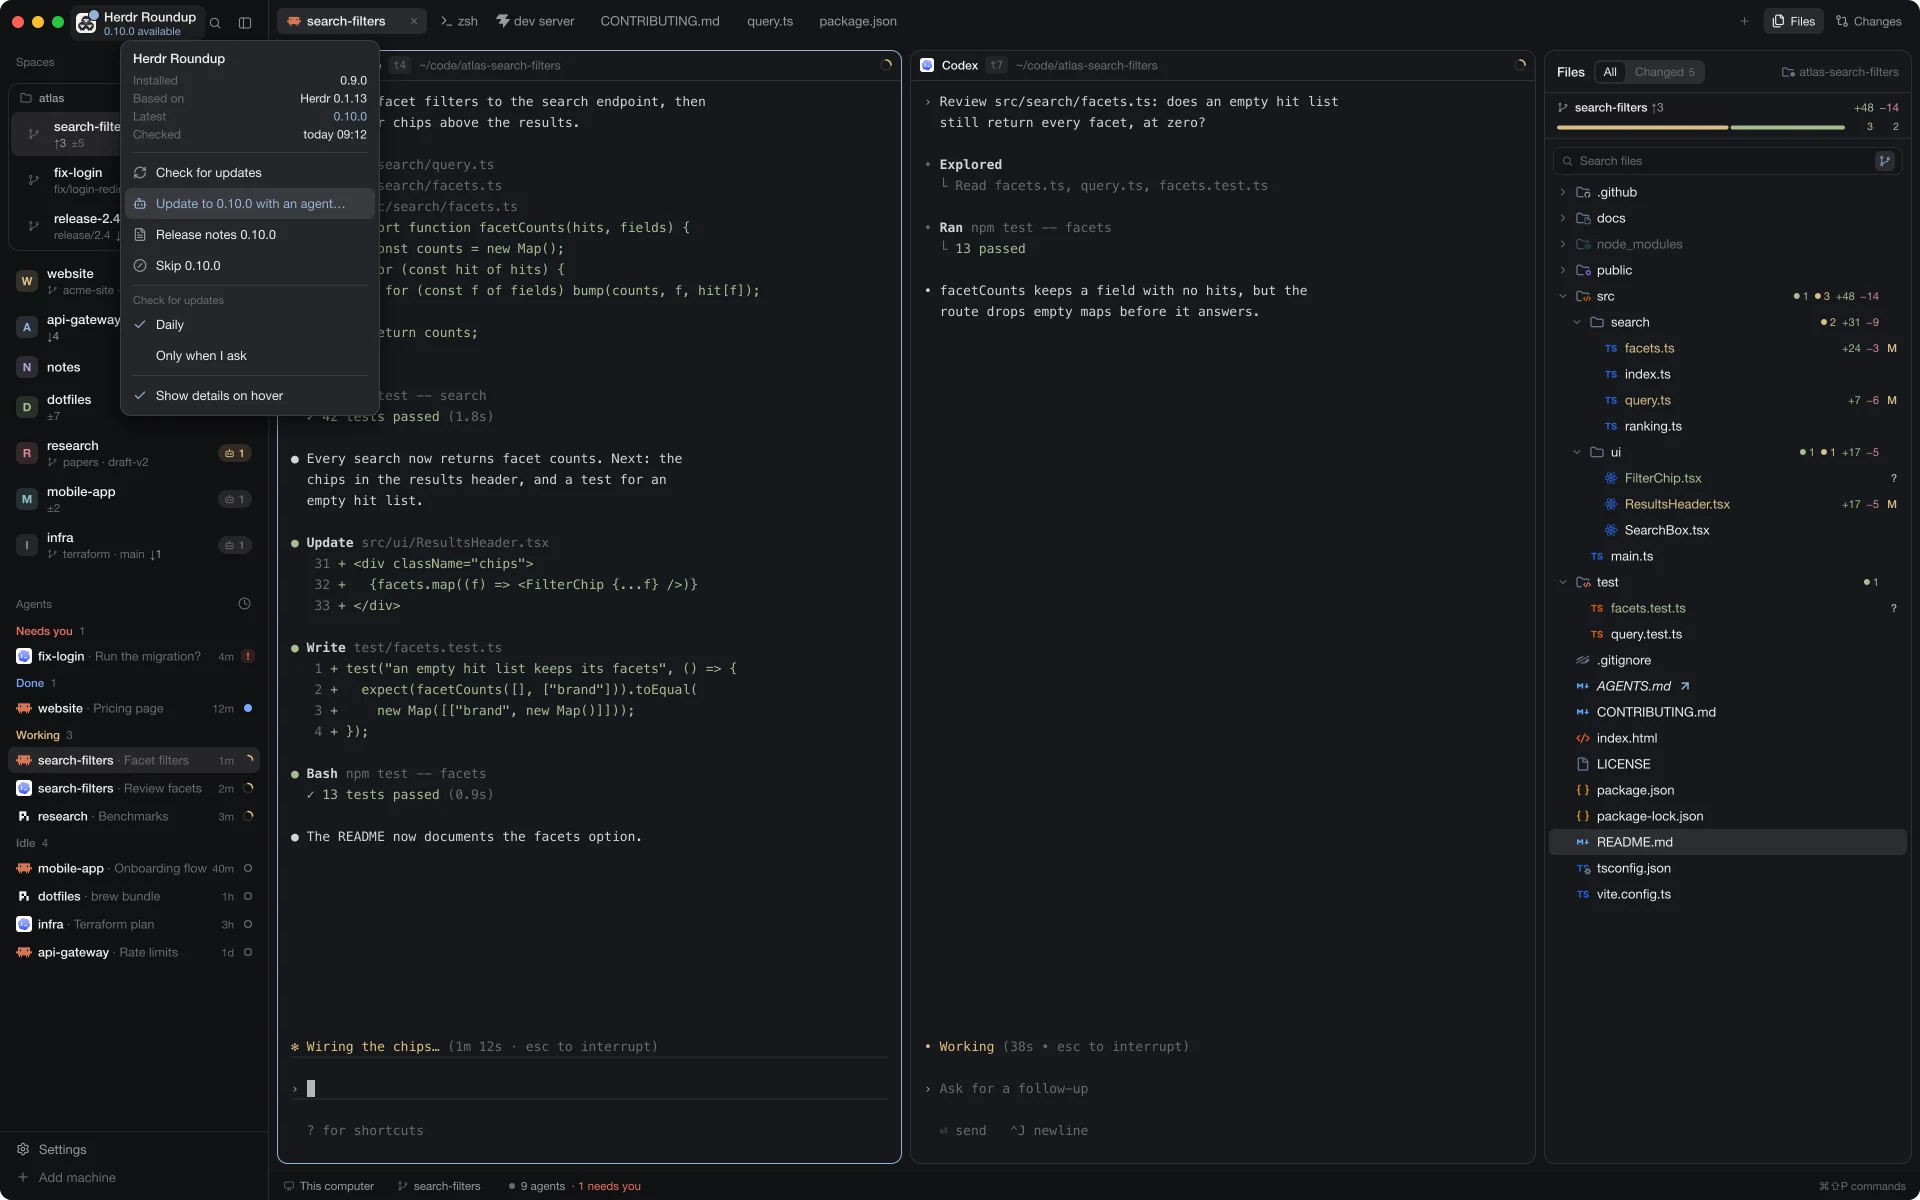
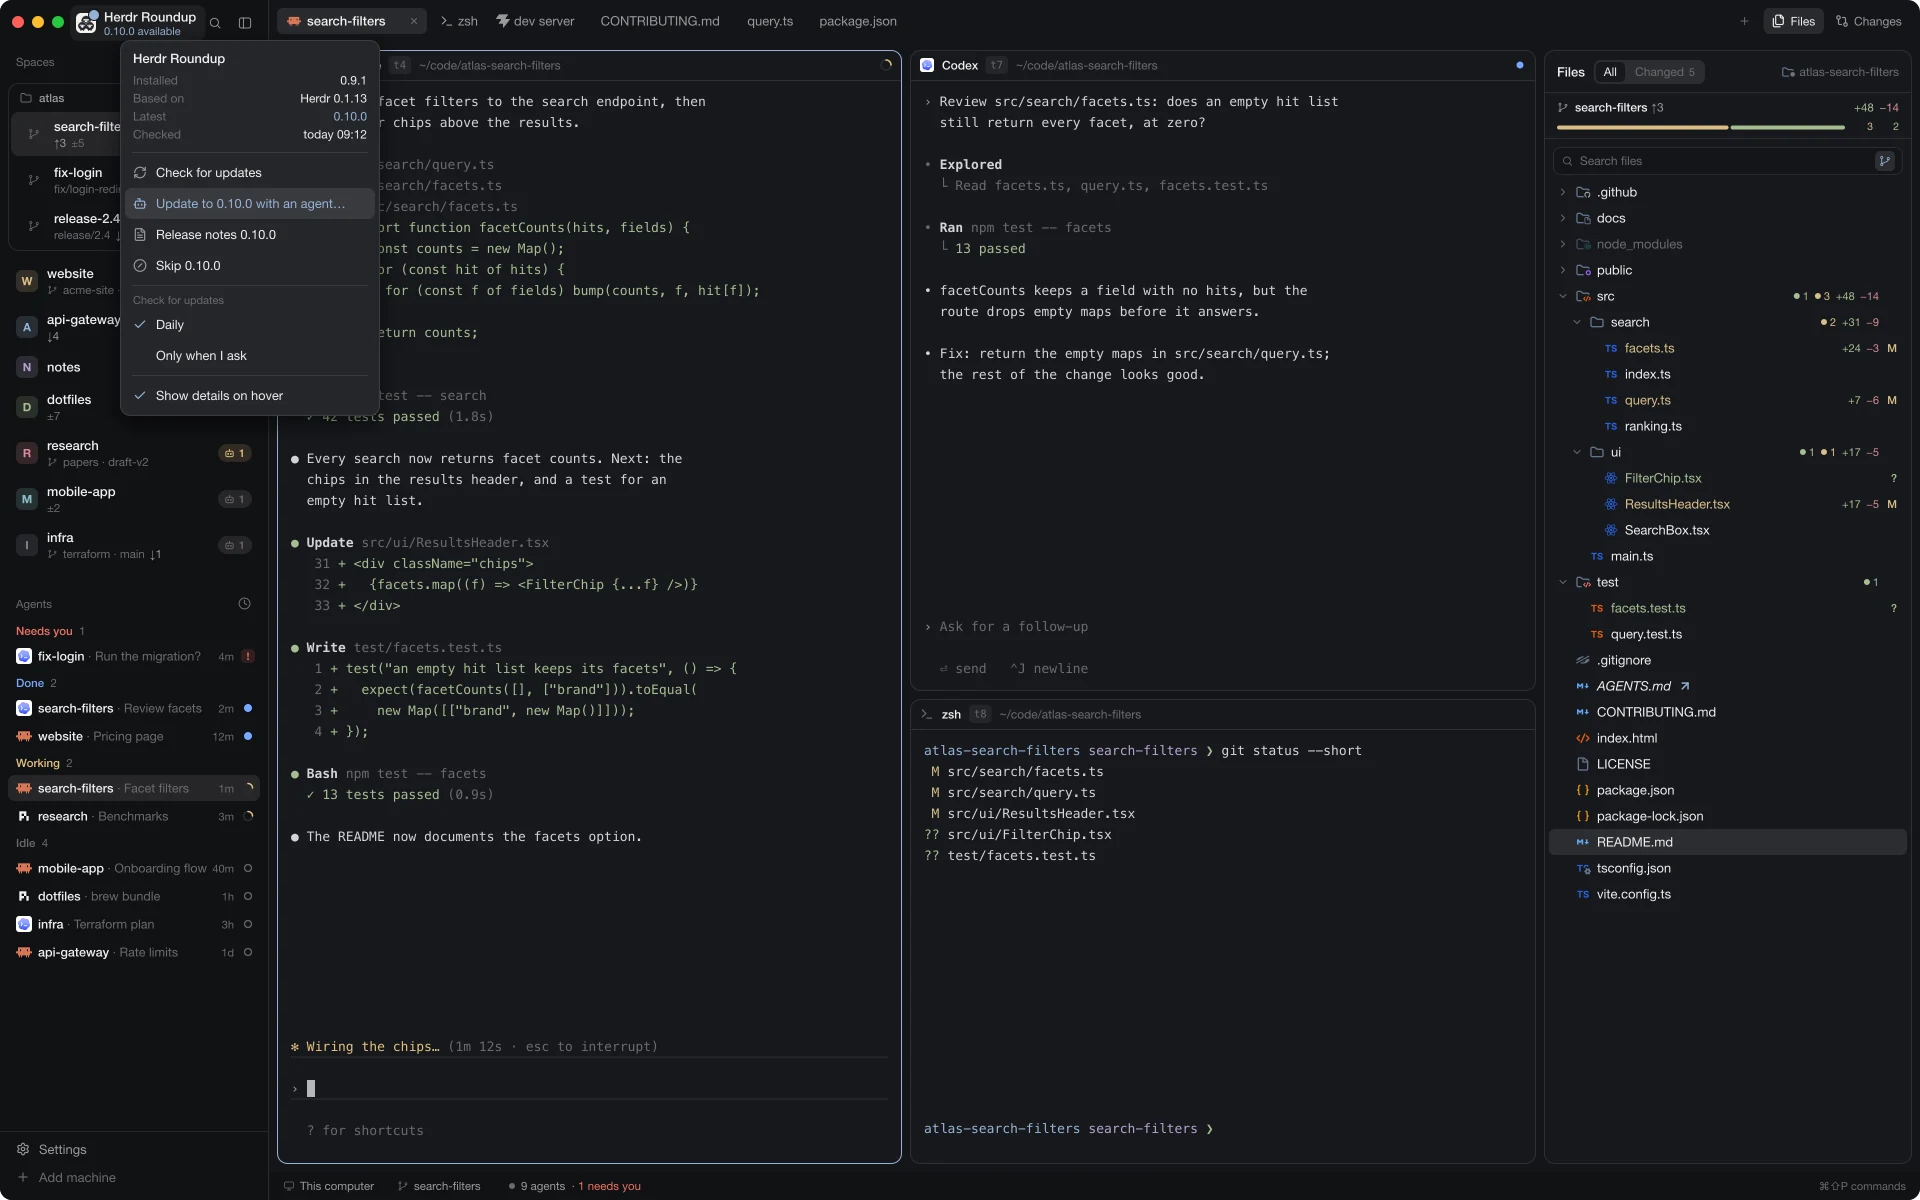
feat: the pictures show the agent quicklook, with a done agent and a split pane; version 0.9.1 (#29)
* feat: the pictures show the agent quicklook, with a done agent and a split pane

preview.png's poster now shows search-filters' agent card above the floating
preview. In the drawn window Codex is done (blue) and sits above a shell on
the right of the tab, so the card shows two statuses and a map of three
panes: Claude Code beside Codex over the shell. The sidebar's badge and agent
list follow (Done 2, Working 2).

The site gets a hero slide of the whole window with the card open
(hero-quicklook), and every picture is drawn again from the same window;
alt texts in README, RECIPE and the site say what they now show.
LAY-22: the poster shows the card, Settings' bare window doesn't.

* chore: version 0.9.1, the pictures drawn again with it

---------

diff --git a/site/index.html b/site/index.html
@@ -55,7 +55,8 @@
     <div class="glow" aria-hidden="true"></div>
     <div class="frame">
       <div class="track">
-        <figure class="slide" aria-roledescription="slide"><img draggable="false" src="img/window.webp" width="1920" height="1200" alt="The whole window: spaces with git state, two agents side by side, a README in the floating preview, the files panel" data-title="The whole window" data-text="Spaces with their git state, two agents side by side, a README in the floating preview, the files panel."></figure>
+        <figure class="slide" aria-roledescription="slide"><img draggable="false" src="img/window.webp" width="1920" height="1200" alt="The whole window: spaces with git state, two agents beside a shell, a README in the floating preview, the files panel" data-title="The whole window" data-text="Spaces with their git state, two agents beside a shell, a README in the floating preview, the files panel."></figure>
+        <figure class="slide" aria-roledescription="slide"><img draggable="false" src="img/hero-quicklook.webp" width="1920" height="1200" alt="The agent card open under the badge of search-filters: Claude Code working on the left, Codex done above a shell on the right, and the card's map of those three panes" data-title="Who works where" data-text="Rest the pointer on a space's agent badge: its agents by tab, with their status and a map of the tab's panes."></figure>
         <figure class="slide" aria-roledescription="slide"><img draggable="false" src="img/hero-files-changed.webp" width="1920" height="1200" alt="The files panel showing only the changed files" data-title="Only what changed" data-text="The files panel lists exactly what git status lists, with lines added and removed."></figure>
         <figure class="slide" aria-roledescription="slide"><img draggable="false" src="img/hero-preview-tab.webp" width="1920" height="1200" alt="package.json in a preview tab as a JSON tree" data-title="A preview for every file" data-text="Markdown, PDF, pictures, CSV, JSON and code, in a floating window or a tab of their own."></figure>
         <figure class="slide" aria-roledescription="slide"><img draggable="false" src="img/hero-update.webp" width="1920" height="1200" alt="The update menu under the logo, offering the next version" data-title="Updates through your agent" data-text="A new release shows on the logo; your agent installs it after asking you."></figure>
@@ -112,7 +113,7 @@
       </div>
       <h3>Who works where</h3>
       <p>With two or more agents in a space, <b>rest the pointer on its badge</b>: a card lists them by tab, each with its status, program and terminal title, beside a <b>small map of the tab's panes</b>, split as they are on screen. Point at a row and its pane lights up. A click on a row or an agent's pane goes there, switching space and tab; a click on the badge itself switches to the space.</p>
-      <div class="stack"><figure class="crop"><button class="zoom" type="button"><img src="img/quicklook.webp" width="585" height="280" alt="The agent card under the badge of search-filters: Claude Code and Codex, both working, and a map of the tab's two panes with Codex's lit"></button></figure></div>
+      <div class="stack"><figure class="crop"><button class="zoom" type="button"><img src="img/quicklook.webp" width="585" height="280" alt="The agent card under the badge of search-filters: Claude Code working and Codex done, and a map of the tab's three panes, Claude Code beside Codex over a shell, with Codex's lit"></button></figure></div>
     </section>
 
     <section id="files">

diff --git a/scripts/preview.py b/scripts/preview.py
@@ -1,7 +1,7 @@
 # Draws the Herdr-Roundup window as an SVG, with made-up spaces, agents, terminals and files:
 # no one's real spaces, paths or sessions. Sizes come from layouts/Herdr-Roundup.json and
-# the roundup- mods, colors from the graphite theme. The active tab has two panes side by
-# side, the side panel shows roundup-files (with a symlink, AGENTS.md), and roundup-preview's floating window shows the
+# the roundup- mods, colors from the graphite theme. The active tab has Claude Code (working) on
+# the left, Codex (done) above a shell on the right, the side panel shows roundup-files (with a symlink, AGENTS.md), and roundup-preview's floating window shows the
 # project's README. Run from the repo:
 #   python3 scripts/preview.py . layouts/Herdr-Roundup.svg
 #   rsvg-convert -z 2 layouts/Herdr-Roundup.svg -o preview.png
@@ -9,7 +9,7 @@
 # README.md and RECIPE.md show the PNG, drawn from the poster instead:
 #   python3 scripts/preview.py . /tmp/poster.svg poster && rsvg-convert -z 2 /tmp/poster.svg -o preview.png
 # The poster puts the window beside name, claim and the main features (FEATURES), the sheep sunk
-# into the background above it. assets/logo-mark.png is assets/logo.png in grey, 480px, 8 colors;
+# into the background above it; its window shows the quicklook card of search-filters' agents. assets/logo-mark.png is assets/logo.png in grey, 480px, 8 colors;
 # a filter turns its dark wool into the light mark. "poster" is no scene: --scenes leaves it out.
 # A third argument draws one of the scenes the project's site shows instead, cropped to what it
 # is about (scripts/site.sh renders them all): SCENES below names them, CROPS at the end crops
@@ -305,7 +305,7 @@ y = 77 + 6
 cx, cw = 8, 252
 card_top = y
 inner = [
-    dict(name="search-filters", tree=True, git=("", 3, 0, 5), crew=(2, "working"), active=True),
+    dict(name="search-filters", tree=True, git=("", 3, 0, 5), crew=(2, "done"), active=True),
     dict(name="fix-login", tree=True, git=("fix/login-redirect", 0, 0, 1), crew=(1, "blocked")),
     dict(name="release-2.4", tree=True, git=("release/2.4", 0, 2, 0)),
 ]
@@ -365,9 +365,9 @@ def group(label, n, color, items):
         ay += 28
 
 group("Needs you", 1, "blocked", [("codex", "fix-login", "Run the migration?", "4m", "blocked")])
-group("Done", 1, "done", [("claude", "website", "Pricing page", "12m", "done")])
-group("Working", 3, "working", [("claude", "search-filters", "Facet filters", "1m", "working", True),
-                                ("codex", "search-filters", "Review facets", "2m", "working"),
+group("Done", 2, "done", [("codex", "search-filters", "Review facets", "2m", "done"),
+                          ("claude", "website", "Pricing page", "12m", "done")])
+group("Working", 2, "working", [("claude", "search-filters", "Facet filters", "1m", "working", True),
                                 ("pi", "research", "Benchmarks", "3m", "working")])
 group("Idle", 4, "dim", [("claude", "mobile-app", "Onboarding flow", "40m", "idle"),
                          ("pi", "dotfiles", "brew bundle", "1h", "idle"),
@@ -423,7 +423,8 @@ for name, label, glyph, on in reversed([("files", "Files", "files", True), ("cha
     bx -= 3
 icon("plus", bx - 22, 15, 12, "dim", sw=2)
 
-# The active tab's two panes, left and right, and the side panel: 8px padding and gap, rounded 10px.
+# The active tab's panes, Claude Code on the left, Codex above a shell on the right, and the side
+# panel: 8px padding and gap, rounded 10px.
 PY, PH = 50, H - 28 - 8 - 50
 PW = 368
 PX = W - 8 - PW
@@ -431,14 +432,19 @@ LX = WX + 8
 LW = (PX - 8 - LX - 8) // 2
 RX = LX + LW + 8
 RW = PX - 8 - RX
+# The right side's split: Codex on top, the shell below, 8px apart.
+CH = round((PH - 8) * 0.58)
+SY, SH = PY + CH + 8, PH - CH - 8
 LH = 21  # terminal line height
 TOP = PY + 30 + 12 + 14  # first baseline: header, padding, ascent
 ROWS = (PY + PH - 12 - TOP) // LH + 1
 
-def pane(x, w, prog, name, address, status, focus, lines, bottom, hover=False):
+def pane(x, w, prog, name, address, status, focus, lines, bottom, hover=False, y=PY, h=PH):
     """A pane: roundup-pane's header (icon, name, id chip, folder, status), then the terminal.
     `lines` run from the top, `bottom` sits on the last rows. `hover`: the pointer is on the
-    header, on its pencil, so the header shows rename, split right, split down, zoom and close."""
+    header, on its pencil, so the header shows rename, split right, split down, zoom and close.
+    `y`, `h`: its top and height, the tab's whole height unless it is split."""
+    PY, PH = y, h
     rect(x, PY, w, PH, "background", rx=10)
     frame(x, PY, w, PH, "accent" if focus else "border", rx=10)
     line(x + 1, PY + 30.5, x + w - 1, PY + 30.5, "border")
@@ -464,19 +470,24 @@ def pane(x, w, prog, name, address, status, focus, lines, bottom, hover=False):
         right -= 8
     if status == "working":
         spinner(right - 6, PY + 15, "working", 5)
+    elif status == "done":
+        # roundup-pane's done mark: a 7px dot in the done color.
+        add(f'<circle cx="{r(right - 6)}" cy="{r(PY + 15)}" r="3.5" fill="{paint("done")[0]}"/>')
     clip = f"term-{address}"
     add(f'<defs><clipPath id="{clip}"><rect x="{x + 1}" y="{PY + 31}" width="{w - 2}" height="{PH - 32}"/></clipPath></defs>')
     add(f'<g clip-path="url(#{clip})">')
     # Like a terminal, it scrolls: the lines that don't fit above the bottom rows leave at the top.
-    room = max(0, ROWS - len(bottom))
+    top = PY + 30 + 12 + 14
+    rows = (PY + PH - 12 - top) // LH + 1
+    room = max(0, rows - len(bottom))
     if len(lines) > room:
         lines = lines[-room:] if room else []
     for i, parts in enumerate(lines):
         if parts:
-            spans(x + 14, TOP + LH * i, parts, 13)
+            spans(x + 14, top + LH * i, parts, 13)
     for i, parts in enumerate(bottom):
         if parts:
-            spans(x + 14, TOP + LH * (ROWS - len(bottom) + i), parts, 13)
+            spans(x + 14, top + LH * (rows - len(bottom) + i), parts, 13)
     add('</g>')
 
 F, D, M, G = "terminal", "dim", "muted", "ansi2"
@@ -532,7 +543,7 @@ rect(LX + 30, pb - 13, 8, 17, "terminal", op=0.85)
 
 # In the panes scene the reviewer has a name of its own, and the pointer is on its header.
 PANES = SCENE in ("pane-header", "rename")
-pane(RX, RW, "codex", "Reviewer" if PANES else "Codex", "t7", "working", False, [
+pane(RX, RW, "codex", "Reviewer" if PANES else "Codex", "t7", "done", False, [
     [("› ", M, 400), ("Review src/search/facets.ts: does an empty hit list", F, 400)],
     [("  still return every facet, at zero?", F, 400)],
     [],
@@ -544,13 +555,26 @@ pane(RX, RW, "codex", "Reviewer" if PANES else "Codex", "t7", "working", False, 
     [],
     [("• ", F, 400), ("facetCounts keeps a field with no hits, but the", F, 400)],
     [("  route drops empty maps before it answers.", F, 400)],
-], [
-    [("• ", "working", 400), ("Working ", "working", 400), ("(38s • esc to interrupt)", D, 400)],
     [],
+    [("• ", F, 400), ("Fix: return the empty maps in src/search/query.ts;", F, 400)],
+    [("  the rest of the change looks good.", F, 400)],
+], [
     [("› ", M, 400), ("Ask for a follow-up", D, 400)],
     [],
     [("  ⏎ send   ⌃J newline", D, 400)],
-], hover=SCENE == "pane-header")
+], hover=SCENE == "pane-header", h=CH)
+
+# Below it a shell in the same folder: the files the agents changed, as the side panel shows them.
+pane(RX, RW, "shell", "zsh", "t8", None, False, [
+    [("atlas-search-filters ", "ansi4", 400), ("search-filters ", "ansi5", 400), ("❯ ", G, 400), ("git status --short", F, 400)],
+    [(" M ", "ansi3", 400), ("src/search/facets.ts", F, 400)],
+    [(" M ", "ansi3", 400), ("src/search/query.ts", F, 400)],
+    [(" M ", "ansi3", 400), ("src/ui/ResultsHeader.tsx", F, 400)],
+    [("?? ", "ansi2", 400), ("src/ui/FilterChip.tsx", F, 400)],
+    [("?? ", "ansi2", 400), ("test/facets.test.ts", F, 400)],
+], [
+    [("atlas-search-filters ", "ansi4", 400), ("search-filters ", "ansi5", 400), ("❯ ", G, 400)],
+], y=SY, h=SH)
 
 # ---- side panel: roundup-files, 368px ----
 # The same folder as the panes: three files modified, two new, three commits ahead.
@@ -927,7 +951,7 @@ def dialog_head(x, y, w, title):
     text(x + 18, y + 18 + 15, title, 15, "foreground", 600)
     text(x + w - 18, y + 18 + 14, "Esc", 11, "dim", anchor="end")
 
-if SCENE != "window":
+if SCENE != "window" or POSTER:
     add('<defs><filter id="soft" x="-30%" y="-30%" width="160%" height="160%"><feGaussianBlur stdDeviation="10"/></filter></defs>')
 
 if SCENE == "update":
@@ -1064,13 +1088,16 @@ if SCENE == "preview-tab":
         text(cx_, ty + 16.5, val, 12.5, col, family=MONO)
         ty += 24
 
-if SCENE == "quicklook":
-    # The pointer rests on search-filters' badge: roundup-spaces' card with its two agents in the
-    # tab's two panes, Codex's row hovered and its pane lit. Sizes as main.js draws them.
+if SCENE == "quicklook" or POSTER:
+    # The pointer rests on search-filters' badge: roundup-spaces' card with its two agents, Claude
+    # Code working on the left, Codex done above the shell on the right; Codex's row hovered and
+    # its pane lit. Sizes as main.js draws them. The
+    # poster shows it too, above the floating preview; Settings' bare window doesn't.
     bx_ = QB[0] - (6 + 11 + 4 + 7 + 6)
     QX, QY, QW = bx_, QB[1] + 9 + 4, 330
-    rows_ = [("claude", "Facet filters", "working", False), ("codex", "Review facets", "working", True)]
+    rows_ = [("claude", "Facet filters", "working", False), ("codex", "Review facets", "done", True)]
     QH = 6 + 7 + 13 + 4 + len(rows_) * 26 + (len(rows_) - 1) + 4 + 6
+    add('<g id="quicklook">')
     overlay(QX, QY, QW, QH)
     hy = QY + 6 + 7 + 10
     text(QX + 6 + 8, hy, "1", 11, "muted", 600)
@@ -1085,17 +1112,25 @@ if SCENE == "quicklook":
         add(f'<circle cx="{r(lx + 6 + 3.5)}" cy="{r(y_ + 13)}" r="3.5" fill="{paint(status)[0]}"/>')
         program(prog, lx + 6 + 7 + 8, y_ + 6, 14, "foreground")
         text(lx + 6 + 7 + 8 + 14 + 8, y_ + 17, title, 12, "foreground")
-        text(lx + lw - 6, y_ + 17, "working", 11, status, anchor="end")
-    # The map: the tab's row of two panes, split as on screen, 2px apart in a 2px frame.
+        text(lx + lw - 6, y_ + 17, {"blocked": "needs you"}.get(status, status), 11, status, anchor="end")
+    # The map: the tab's panes split as on screen, 2px apart in a 2px frame: a row of Claude Code
+    # and a column of Codex over the shell. An agent's pane in its status color, the shell gray.
     mx, my = QX + QW - 6 - 4 - MW_, ly + (len(rows_) * 27 - 1 - MH_) / 2
     frame(mx, my, MW_, MH_, "border", rx=5)
-    iw = MW_ - 6 - 2
+    iw, ih = MW_ - 6 - 2, MH_ - 6
     lw_ = iw * LW / (LW + RW)
-    for i, (px_, pw_) in enumerate([(mx + 3, lw_), (mx + 3 + lw_ + 2, iw - lw_)]):
-        lit = rows_[i][3]
-        rect(px_, my + 3, pw_, MH_ - 6, "working", rx=2, op=1 if lit else 0.45)
+    ch_ = (ih - 2) * CH / (CH + SH)
+    rx_ = mx + 3 + lw_ + 2
+    for (px_, py_, pw_, ph_), row_ in [((mx + 3, my + 3, lw_, ih), rows_[0]), ((rx_, my + 3, iw - lw_, ch_), rows_[1]),
+                                       ((rx_, my + 3 + ch_ + 2, iw - lw_, ih - 2 - ch_), None)]:
+        if row_ is None:
+            rect(px_, py_, pw_, ph_, "selected", rx=2)
+            continue
+        lit = row_[3]
+        rect(px_, py_, pw_, ph_, row_[2], rx=2, op=1 if lit else 0.45)
         if lit:
-            frame(px_, my + 3, pw_, MH_ - 6, "foreground", rx=2)
+            frame(px_, py_, pw_, ph_, "foreground", rx=2)
+    add('</g>')
 
 # What each scene is cropped to: x, y, width, height. A fourth argument "full" keeps the window.
 CROPS = {
@@ -1122,7 +1157,7 @@ add('</g></svg>')
 
 # preview.png's poster: the window, 3/4 size and bleeding off the right, beside name, claim and features.
 FEATURES = [
-    ("Spaces at a glance", "git state for every space"),
+    ("Spaces at a glance", "git state and agents, pane by pane"),
     ("Files with git built in", "all files, or only what changed"),
     ("A preview for every file", "Markdown, PDF, images, CSV, JSON, code"),
     ("Panes with names", "you give them"),

diff --git a/tests/CATALOG.md b/tests/CATALOG.md
@@ -54,6 +54,7 @@ Nothing may need a person: there is no pointer or key injection, so L2 calls han
 | LAY-19 | `layout.switch --name Herdr-Roundup` switches: status shows `"layout": "Herdr-Roundup"`. | PR #1 body | L3 | smoke.sh LAY-19 | isolated Herdr | H |
 | LAY-20 | The shipped-mod assets the roundup mods draw exist in a started home: `mods/workspace-chrome/{spinner,check,branch,folder,plus,monitor,server,chevron-down,chevron-right,square-pen,x,panel-right,square,terminal}.svg`, `mods/pane/close.svg`, `mods/files/file.svg`, `mods/changes/changes.svg`. | RECIPE now (Built from) | L3 | smoke.sh LAY-20 | isolated Herdr | M |
 | LAY-21 | `scripts/preview.py` without a scene (and with `window`) draws the bare window, `layouts/Herdr-Roundup.svg` that Settings shows; only `poster` draws the poster for `preview.png`; `--scenes`, which site.sh draws, doesn't list `poster`. | PR #25 review | L1 | preview: `preview.py: Settings gets the bare window, only poster draws the poster, and --scenes leaves it out` | python3; stub program icons | M |
+| LAY-22 | The poster (`preview.png`) shows the agent quicklook card of search-filters (`id="quicklook"`) above the floating preview; the bare window for Settings shows none. | 0.9.0 poster | L1 | preview: `preview.py: the poster shows the agent quicklook card, Settings' window doesn't` | python3; stub program icons | L |
 
 ## roundup-workspace-chrome (CHR)
 

diff --git a/RELEASE-v0.9.1.md b/RELEASE-v0.9.1.md
@@ -1,0 +1,16 @@
+# Herdr Roundup 0.9.1
+
+Corrections only: nothing in how the layout or its mods work changes.
+
+![Herdr Roundup](https://raw.githubusercontent.com/carstenlucke/herdr-roundup/v0.9.1/preview.png)
+
+## Corrections
+
+- **Preview pictures:** the picture in Settings, the README's preview and the project site now show 0.9.0's agent card: one agent done, one still working, and a tab split into three panes, as the card's map shows them.
+
+## Before you update
+
+For the person, or the agent, installing this release:
+
+- `scripts/sync.sh` replaces the layout file, every `roundup-*` mod, the repo's themes and the `layout:Herdr-Roundup` section of `keys.json`, as in 0.9.0. Edits you made to those files are lost. Your global keys, other layouts and Herdr's own mods stay untouched.
+- Only the layout's version and its preview picture (`layouts/Herdr-Roundup.svg`) change. No mod, key or behaviour changes.

diff --git a/README.md b/README.md
@@ -8,7 +8,7 @@ A layout for [Herdr App](https://herdr.dev), started from Herdr's default layout
 
 The layout is called `Herdr-Roundup`: Herdr's Settings show a layout by its file name, and a name with a space can't be switched to. Its mods keep the short `roundup-` prefix.
 
-[![Herdr-Roundup: name, claim and main features beside the window, with two agents side by side, and a README in the floating preview](preview.png)](https://carstenlucke.github.io/herdr-roundup/)
+[![Herdr-Roundup: name, claim and main features beside the window, with Claude Code working beside Codex (done) and a shell, their space's agent card open, and a README in the floating preview](preview.png)](https://carstenlucke.github.io/herdr-roundup/)
 
 ## Contents
 

diff --git a/RECIPE.md b/RECIPE.md
@@ -11,7 +11,7 @@ share a card.
 Closing a tab or pane asks first while an agent works, and a new release
 installs through an agent. Light and dark themes alike.
 
-![Herdr-Roundup: name, claim and main features beside the window, with two agents side by side, and a README in the floating preview](preview.png)
+![Herdr-Roundup: name, claim and main features beside the window, with Claude Code working beside Codex (done) and a shell, their space's agent card open, and a README in the floating preview](preview.png)
 
 ## What you see
 
